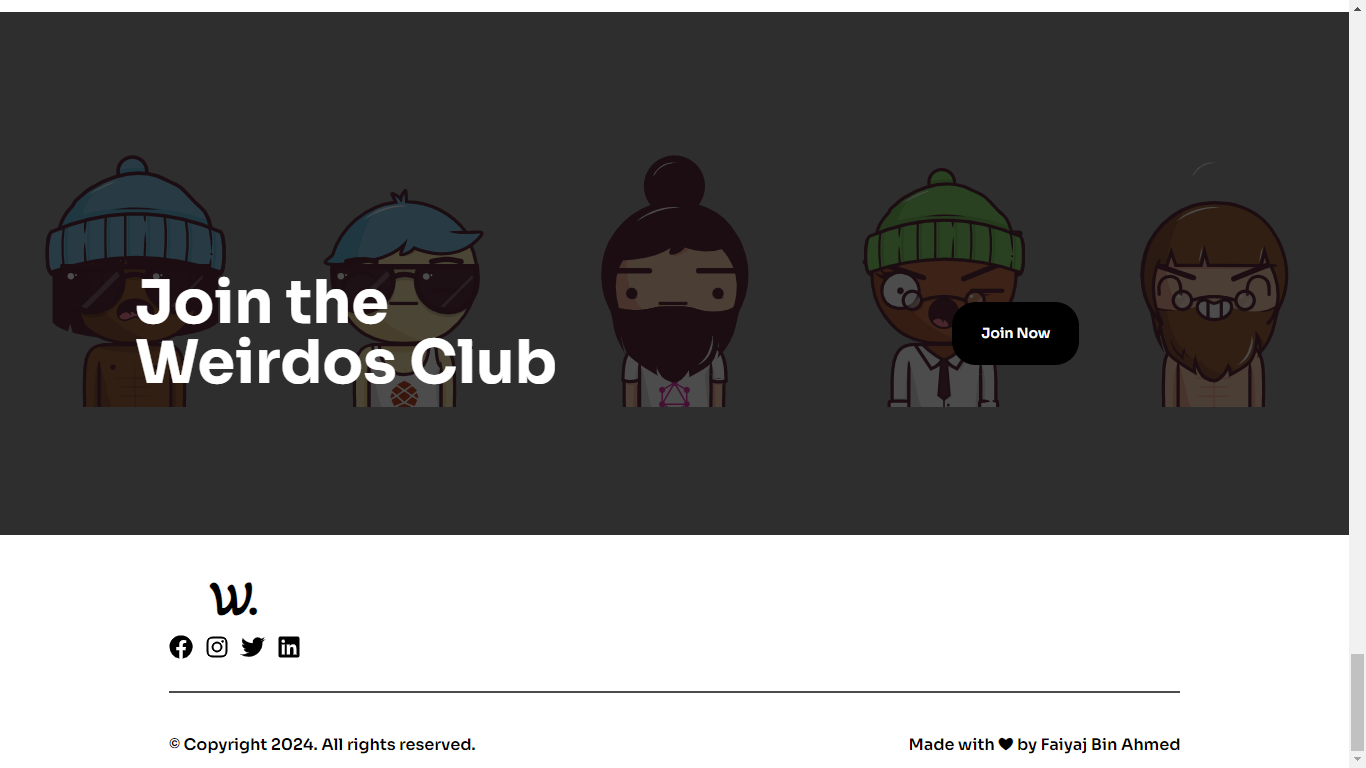
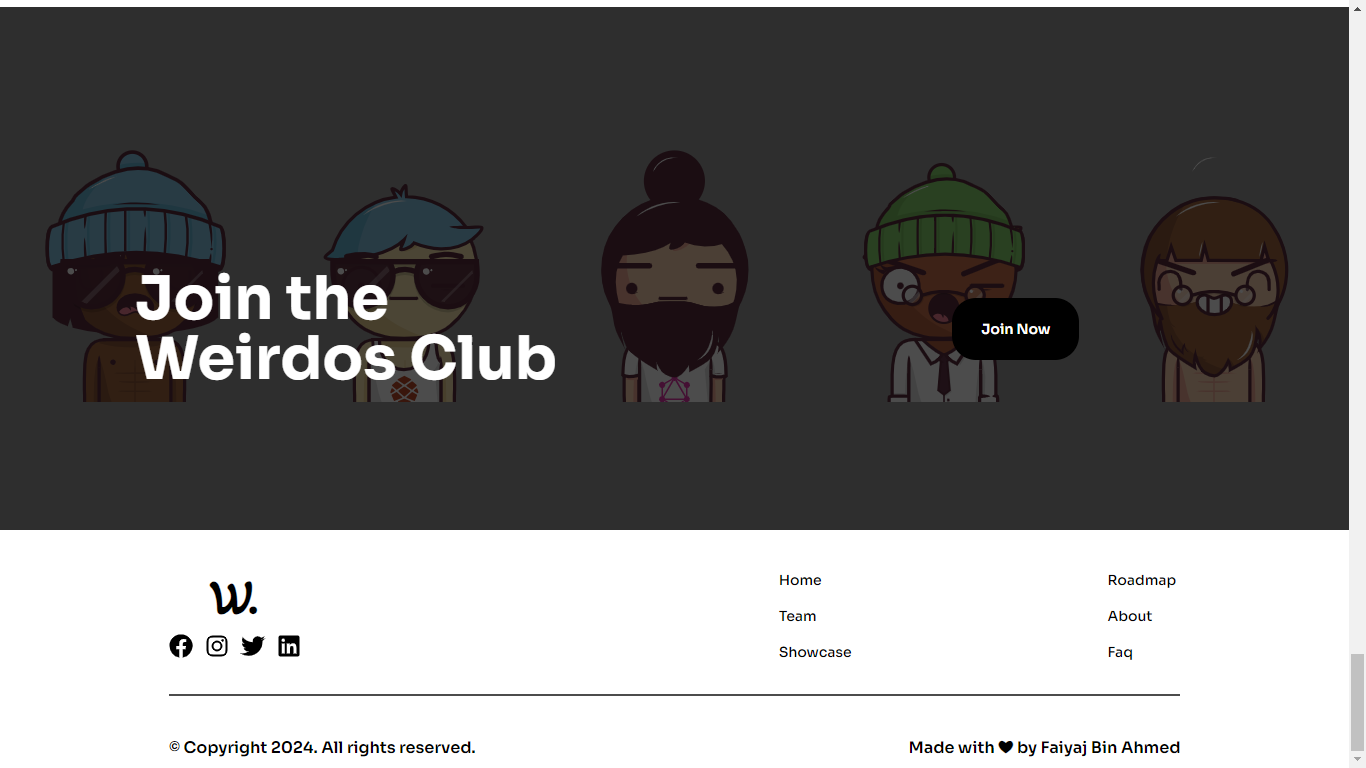
Issues Fixed

diff --git a/src/components/sections/Footer.jsx b/src/components/sections/Footer.jsx
@@ -9,7 +9,7 @@ import Logo from "../Logo";
 
 import { FaTwitter, FaInstagram, FaLinkedin, FaFacebook } from "react-icons/fa";
 import { Link } from "react-router-dom";
-import { motion } from "framer-motion";
+
 const Footer = () => {
   return (
     <footer className="flex items-center justify-center flex-col w-full min-h-screen ">
@@ -52,7 +52,7 @@ const Footer = () => {
             </div>
           </div>
           {/* Menu */}
-          <div className="mb-8 hidden lg:visible">
+          <div className="mb-8 hidden lg:block">
             <ul className="grid grid-cols-2 w-full gap-x-64 gap-y-4 font-light auto-cols-fr ">
               <Link
                 href="#home"

diff --git a/src/components/sections/Team.jsx b/src/components/sections/Team.jsx
@@ -9,7 +9,7 @@ import img7 from "../../assets/Nfts/bighead-7.svg";
 import img8 from "../../assets/Nfts/bighead-8.svg";
 import img9 from "../../assets/Nfts/bighead-9.svg";
 import img10 from "../../assets/Nfts/bighead-10.svg";
-import { runFireworks } from "../Confetti";
+
 const MemberComponent = ({ img, name = "", position = "" }) => {
   return (
     <div

diff --git a/public/index.html b/public/index.html
@@ -24,7 +24,7 @@
       work correctly both with client-side routing and a non-root public URL.
       Learn how to configure a non-root public URL by running `npm run build`.
     -->
-    <title>React App</title>
+    <title>The Weirdos</title>
   </head>
   <body>
     <noscript>You need to enable JavaScript to run this app.</noscript>

diff --git a/README.md b/README.md
@@ -11,7 +11,7 @@ This app is built on seven frameworks that are shown below.
 
 ### Live Demonstration
 
-<!-- Fudo is live here [Project](https://fudo-sepia.vercel.app/) -->
+The-Weirdos is live here [Project](https://the-weirdos-two.vercel.app/)
 
 Here are the screenshots of the Fudo Website
 
